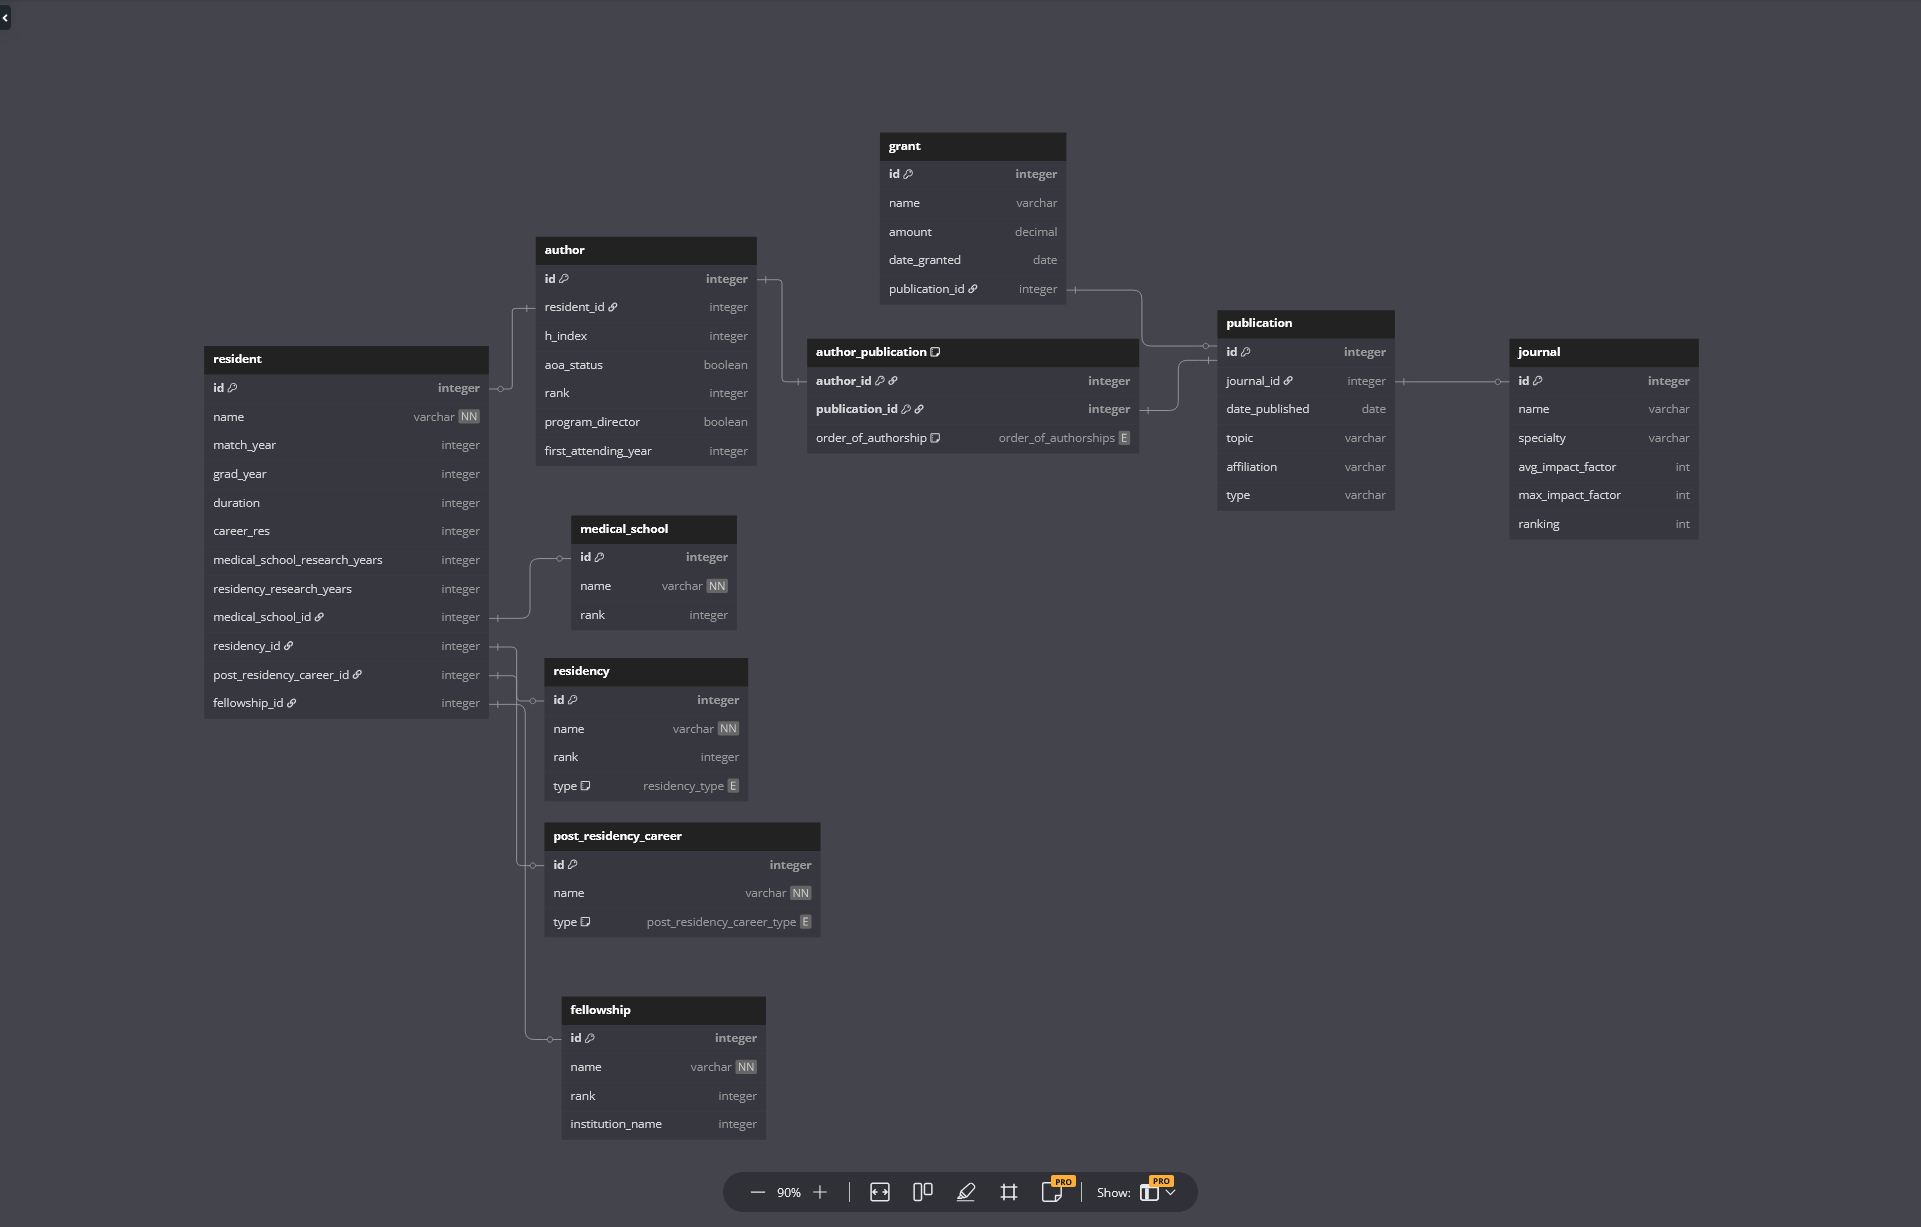
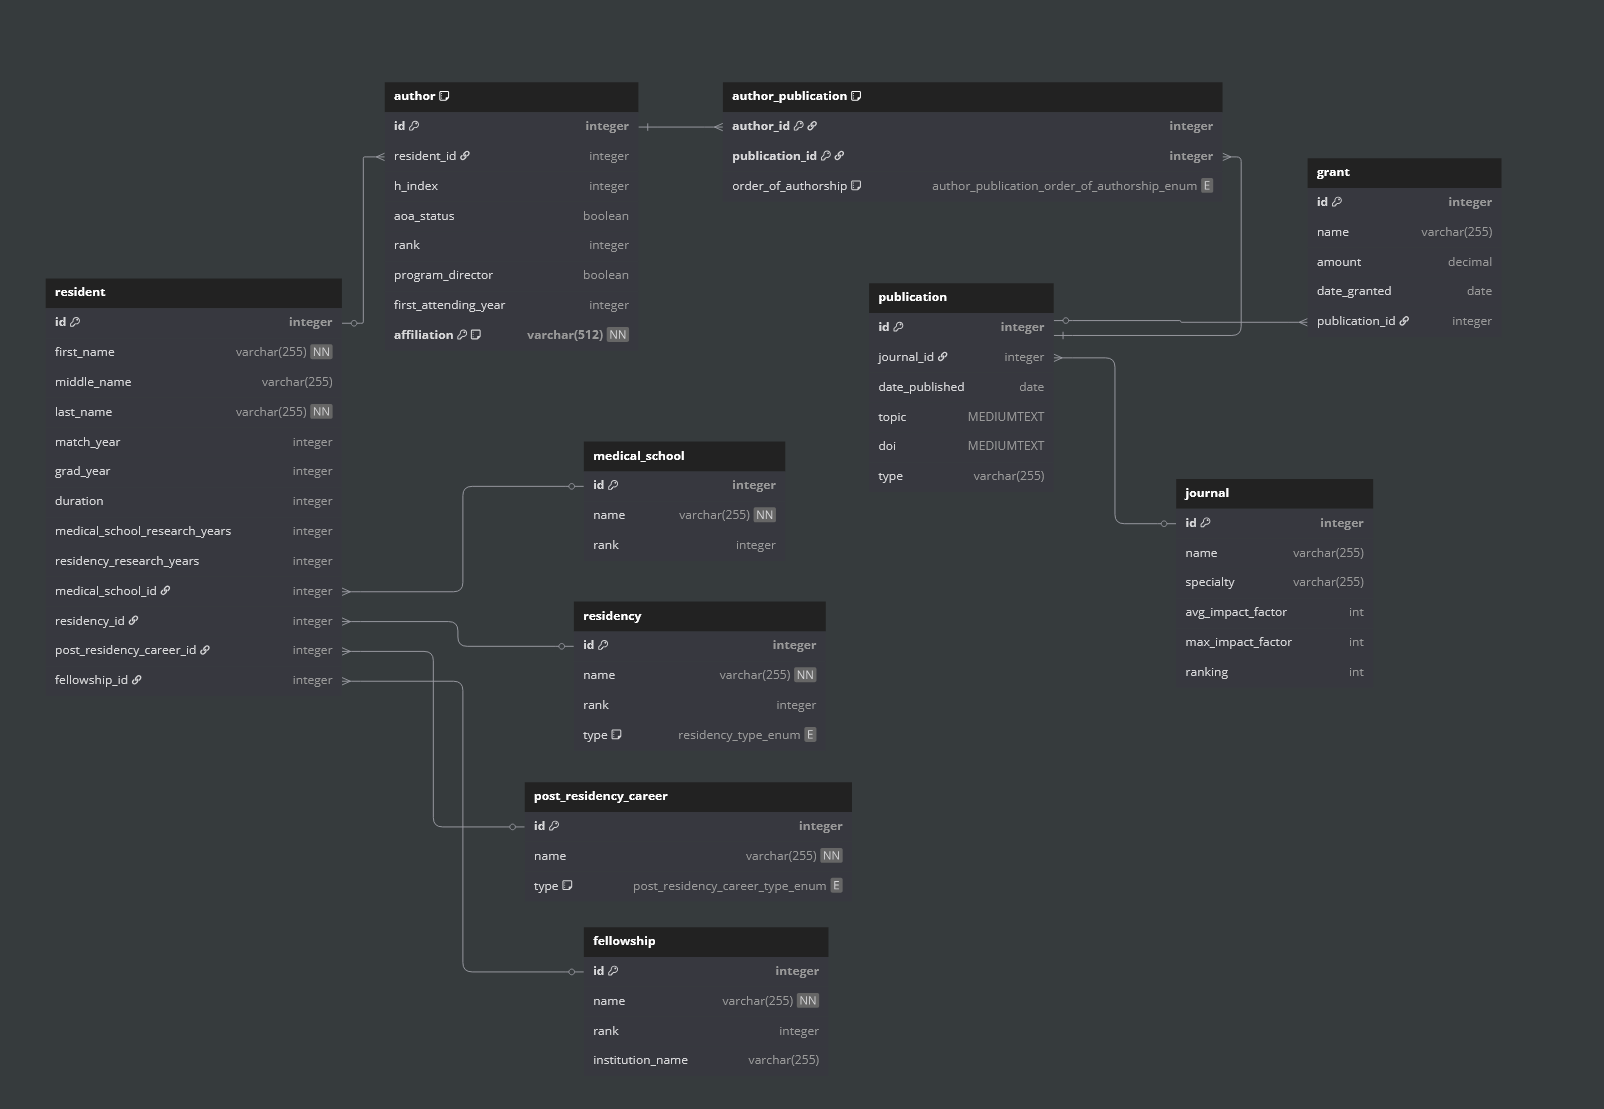
Updated database sketch and mysql odbc driver

diff --git a/python/initialize_database.py b/python/initialize_database.py
@@ -8,7 +8,7 @@ from utils.select_functions import (insert_if_not_exists, insert_into_table,
 
 def connect_to_db():
     try:
-        return pyodbc.connect('DRIVER={MySQL ODBC 9.2 ANSI Driver};SERVER=localhost;DATABASE={integrated_resident_project};UID=admin;')
+        return pyodbc.connect('DRIVER={MySQL ODBC 9.3 ANSI Driver};SERVER=localhost;DATABASE={integrated_resident_project};UID=admin;')
     except pyodbc.Error as e:
         print(f"Error connecting to MySQL: {e}")
         exit(1)
@@ -56,8 +56,8 @@ def process_row(conn, row):
 
         # Handle resident insertion
         duration = row['Grad_year'] - row['Match_year']
-        med_school_research = duration - 6
-        residency_research = (med_school_research - 1 if med_school_research > 1 else 0)
+        med_school_research = 0
+        residency_research = duration - 6
 
         # Get required IDs using select_with_condition which now returns results directly
         residency_result = select_with_condition(cursor, TABLES["RESIDENCY"], 

diff --git a/python/clean_database.py b/python/clean_database.py
@@ -5,7 +5,7 @@ from utils.constants import TABLES
 def clean_database():
     try:
         # Connect to the database
-        conn = pyodbc.connect('DRIVER={MySQL ODBC 9.2 ANSI Driver};SERVER=localhost;DATABASE={integrated_resident_project};UID=admin;')
+        conn = pyodbc.connect('DRIVER={MySQL ODBC 9.3 ANSI Driver};SERVER=localhost;DATABASE={integrated_resident_project};UID=admin;')
         cursor = conn.cursor()
 
         # Delete in reverse order of dependencies using TABLES constant

diff --git a/python/insert_pubmed_publications.py b/python/insert_pubmed_publications.py
@@ -11,7 +11,7 @@ from utils.select_functions import (insert_if_not_exists, select_from_table,
 
 # Connect to the MySQL database
 try:
-    conn = pyodbc.connect('DRIVER={MySQL ODBC 9.2 ANSI Driver};SERVER=localhost;DATABASE={integrated_resident_project};UID=admin;')
+    conn = pyodbc.connect('DRIVER={MySQL ODBC 9.3 ANSI Driver};SERVER=localhost;DATABASE={integrated_resident_project};UID=admin;')
 except pyodbc.Error as e:
     print(f"Error connecting to MySQL: {e}")
     exit(1)

diff --git a/oldPython/pubMedTest.py b/oldPython/pubMedTest.py
@@ -10,7 +10,7 @@ from utils.selectFunctions import (insert_if_not_exists, select_from_table,
 
 # Connect to the MySQL database
 try:
-    conn = pyodbc.connect('DRIVER={MySQL ODBC 9.2 ANSI Driver};SERVER=localhost;DATABASE={integrated_resident_project};UID=admin;')
+    conn = pyodbc.connect('DRIVER={MySQL ODBC 9.3 ANSI Driver};SERVER=localhost;DATABASE={integrated_resident_project};UID=admin;')
 except pyodbc.Error as e:
     print(f"Error connecting to MySQL: {e}")
     exit(1)

diff --git a/oldPython/initDatabase.py b/oldPython/initDatabase.py
@@ -3,7 +3,7 @@ import pyodbc
 
 # Connect to the MySQL database
 try:
-    conn = pyodbc.connect('DRIVER={MySQL ODBC 9.2 ANSI Driver};SERVER=localhost;DATABASE={integrated_resident_project};UID=admin;')
+    conn = pyodbc.connect('DRIVER={MySQL ODBC 9.3 ANSI Driver};SERVER=localhost;DATABASE={integrated_resident_project};UID=admin;')
 except pyodbc.Error as e:
     print(f"Error connecting to MySQL: {e}")
     exit(1)
